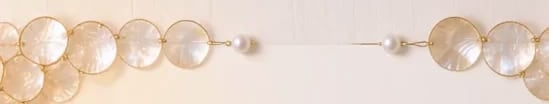
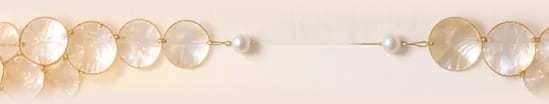
Set Capiz as a stack of pages, each with the frame as its own background
The fixed frame did not move with the words, and the page read as one run
of content over a backdrop. Now the format is a stack of pages, each with
the couple's frame as its own background — the top of the frame at the top
of the page, the bottom at the bottom, solid ground between, the inner
edges of the halves faded into the ground — so the shell and the drapes
scroll with the block they belong to and one page ends where the next
begins. Pages fill the screen; connectors are the short panels between
them, strung between the two strands.

The page map follows the reference: cover; the verse (connector); our story;
the invitation with its interlude; entourage; prenup photos (connector);
the venue — the ceremony's and the reception's when they differ, with the
way to each — and its interlude; dress code; gift; program with snap and
share; guestbook; post-event photos; RSVP; the countdown (connector);
assistance with the closing. A block that would render nothing — a Moment
with no photograph, a gallery with no photos, a guestbook switched off —
claims no page. On a wide screen the invitation is a phone-width column on
the ground colour.

Claude-Session: https://claude.ai/code/session_016Hrn6zEBySWuzzmQYy4Bah

diff --git a/invites/src/components/invite/renderer.tsx b/invites/src/components/invite/renderer.tsx
@@ -285,8 +285,10 @@ function Parents({ occasion, data, lang }: { occasion: Occasion; data: SectionDa
 }
 
 type EventFormat = {
-  /** "ceremony": the invitation block with its rows; "reception": the venue and the way there. */
+  /** "ceremony": the invitation block with its rows; "reception": the venue page — both venues and the way to each. */
   role: 'ceremony' | 'reception';
+  /** The ceremony's own data, for the venue page. */
+  ceremony?: SectionData;
   /** The sentence that does the inviting, and the full names over it. */
   intro?: string;
   sub?: string;
@@ -322,10 +324,10 @@ function EventBlock({ id, title, tagline, data, lang, fallbackDate, calendarHref
         </ul>
         {str(data, 'seatedBy') && <p className="inv-muted mt-4 text-center text-sm">{t(lang, 'ceremony.seatedBy')} {str(data, 'seatedBy')}</p>}
         {str(data, 'note') && <p className="mt-2 whitespace-pre-line text-center text-sm">{str(data, 'note')}</p>}
-        {(format.mapHere || !format.sameVenue || calendarHref) && (
+        {(format.mapHere || calendarHref) && (
           <div className="no-print mt-5 flex flex-wrap justify-center gap-2">
-            {(format.mapHere || !format.sameVenue) && maps && <a href={maps} target="_blank" rel="noopener" className="inv-btn inv-btn-outline">{t(lang, 'map.google')}</a>}
-            {(format.mapHere || !format.sameVenue) && waze && <a href={waze} target="_blank" rel="noopener" className="inv-btn inv-btn-outline">{t(lang, 'map.waze')}</a>}
+            {format.mapHere && maps && <a href={maps} target="_blank" rel="noopener" className="inv-btn inv-btn-outline">{t(lang, 'map.google')}</a>}
+            {format.mapHere && waze && <a href={waze} target="_blank" rel="noopener" className="inv-btn inv-btn-outline">{t(lang, 'map.waze')}</a>}
             {calendarHref && <a href={calendarHref} className="inv-btn inv-btn-outline">{t(lang, 'calendar.add')}</a>}
           </div>
         )}
@@ -333,30 +335,53 @@ function EventBlock({ id, title, tagline, data, lang, fallbackDate, calendarHref
     );
   }
   if (format?.role === 'reception') {
+    // One page for where it all happens: the ceremony's venue and the
+    // reception's when they differ, one heading when they are the same, and
+    // the way to each.
+    const cer = format.ceremony;
+    const cerVenue = cer ? str(cer, 'venue') : '';
+    const places = format.sameVenue || !cerVenue
+      ? [{ label: format.sameVenue ? t(lang, 'venue.both') : t(lang, 'venue.reception'), data, time: format.sameVenue ? '' : time }]
+      : [
+          { label: t(lang, 'invitation.ceremony'), data: cer as SectionData, time: str(cer, 'time') },
+          { label: t(lang, 'venue.reception'), data, time },
+        ];
+    const photoUrl = photo || (cer ? str(cer, 'photo') : '');
     return (
       <Section id={id} title={title} tagline={tagline}>
-        {photo && <img src={imageUrl(photo, IMAGE.feature)} alt="" className="inv-photo inv-venue-photo aspect-[4/3]" loading="lazy" />}
-        <p className="inv-eyebrow">{format.sameVenue ? t(lang, 'venue.both') : t(lang, 'venue.reception')}</p>
-        <p className="inv-venue-name">{venue}</p>
-        {address && <p className="inv-venue-addr">{address}</p>}
-        {time && !format.sameVenue && <p className="mt-2 text-center">{formatTime(time)}</p>}
+        {photoUrl && <img src={imageUrl(photoUrl, IMAGE.feature)} alt="" className="inv-photo inv-venue-photo aspect-[4/3]" loading="lazy" />}
+        <div className="inv-venues">
+          {places.map((p, i) => (
+            <div key={i}>
+              <p className="inv-eyebrow">{p.label}</p>
+              <p className="inv-venue-name">{str(p.data, 'venue')}</p>
+              {str(p.data, 'address') && <p className="inv-venue-addr">{str(p.data, 'address')}</p>}
+              {p.time && <p className="mt-1 text-center">{formatTime(p.time)}</p>}
+            </div>
+          ))}
+        </div>
         {str(data, 'parkingNote') && <p className="mt-3 text-center text-sm">{str(data, 'parkingNote')}</p>}
         {str(data, 'note') && <p className="mt-2 whitespace-pre-line text-center text-sm">{str(data, 'note')}</p>}
-        <div className="inv-getting-block">
-          <span className="inv-bracket" data-side="r" aria-hidden />
-          <h3 className="inv-title inv-title-sub">{format.gettingTitle}</h3>
-          <div className="inv-card inv-getting">
-            <Ico name="pin" />
-            <div>
-              <b>{venue}</b>
-              {address && <span>{address}</span>}
+        <h3 className="inv-title inv-title-sub">{format.gettingTitle}</h3>
+        {places.map((p, i) => {
+          const m = mapsHref(p.data);
+          const w = wazeHref(p.data);
+          return (
+            <div key={i} className="inv-getting-block">
+              <div className="inv-card inv-getting">
+                <Ico name="pin" />
+                <div>
+                  <b>{str(p.data, 'venue')}</b>
+                  {str(p.data, 'address') && <span>{str(p.data, 'address')}</span>}
+                </div>
+              </div>
+              <div className="no-print">
+                {m && <a href={m} target="_blank" rel="noopener" className="inv-btn inv-btn-outline inv-btn-wide"><Ico name="pin" className="inv-ico-sm" />{t(lang, 'map.openGoogle')}</a>}
+                {w && <a href={w} target="_blank" rel="noopener" className="inv-btn inv-btn-outline inv-btn-wide"><Ico name="pin" className="inv-ico-sm" />{t(lang, 'map.openWaze')}</a>}
+              </div>
             </div>
-          </div>
-          <div className="no-print">
-            {maps && <a href={maps} target="_blank" rel="noopener" className="inv-btn inv-btn-outline inv-btn-wide"><Ico name="pin" className="inv-ico-sm" />{t(lang, 'map.openGoogle')}</a>}
-            {waze && <a href={waze} target="_blank" rel="noopener" className="inv-btn inv-btn-outline inv-btn-wide"><Ico name="pin" className="inv-ico-sm" />{t(lang, 'map.openWaze')}</a>}
-          </div>
-        </div>
+          );
+        })}
       </Section>
     );
   }
@@ -736,7 +761,6 @@ function Story({ data, lang, title, tagline, layout, signoff }: { data: SectionD
       )}
       {signoff && (
         <div className="inv-story-sign">
-          <span className="inv-bracket" data-side="r" aria-hidden />
           <span className="inv-rule" aria-hidden />
           <p className="inv-eyebrow">{signoff.names}</p>
           {signoff.date && <p className="inv-eyebrow inv-eyebrow-date">{signoff.date}</p>}
@@ -1101,22 +1125,32 @@ function Contact({ data, lang, tagline, title, format, note }: { data: SectionDa
 // ---------------------------------------------------------------------------
 
 /**
- * The couple's frame, fixed behind the page: every screen carries its drapes
- * and corner clusters while the content scrolls over it. The plate behind the
- * names and the garlands between chapters are CSS on the hero and on the
- * dividers below, so a print carries none of it.
+ * The Capiz format is a stack of pages. Each carries the couple's frame as
+ * its own background — the top of it at the top of the page, the bottom at
+ * the bottom, solid ground between — so the shell and the drapes scroll with
+ * the words they belong to, and one page ends where the next begins the way
+ * the reference does. A "page" fills the screen; a "connector" is the short
+ * panel between two pages, strung between the two strands.
  */
-function CapizDecor() {
-  return <div className="inv-frame" aria-hidden />;
-}
-
-/**
- * Where a garland is strung across the page: before the chapter it opens.
- * The deep rows from the band image open the big chapters; the thin strands
- * from the two-strand image, a cluster at one end then the other, connect
- * the rest.
- */
-const GARLANDS: Partial<Record<SectionKey, 'a' | 'b' | 's1' | 's2'>> = { story: 'a', ceremony: 'b', entourage: 's1', gift: 's2', rsvp: 'a', contact: 's1' };
+type PageDef = { key: string; kind: 'page' | 'connector'; sections: (SectionKey | 'verse')[] };
+const CAPIZ_PAGES: PageDef[] = [
+  { key: 'cover', kind: 'page', sections: ['cover'] },
+  { key: 'verse', kind: 'connector', sections: ['verse'] },
+  { key: 'moment', kind: 'page', sections: ['moment'] },
+  { key: 'story', kind: 'page', sections: ['story'] },
+  { key: 'invitation', kind: 'page', sections: ['ceremony'] },
+  { key: 'entourage', kind: 'page', sections: ['entourage'] },
+  { key: 'prenup', kind: 'connector', sections: ['gallery'] },
+  { key: 'venue', kind: 'page', sections: ['reception'] },
+  { key: 'dress-code', kind: 'page', sections: ['dressCode'] },
+  { key: 'gift', kind: 'page', sections: ['gift'] },
+  { key: 'program', kind: 'page', sections: ['program', 'social'] },
+  { key: 'guestbook', kind: 'page', sections: ['guestbook'] },
+  { key: 'photos', kind: 'page', sections: ['photos'] },
+  { key: 'rsvp', kind: 'page', sections: ['rsvp'] },
+  { key: 'countdown', kind: 'connector', sections: ['countdown'] },
+  { key: 'closing', kind: 'page', sections: ['contact', 'closing'] },
+];
 
 /** Which line icon a program entry gets, from the words in its title. */
 function programIcon(title: string): string {
@@ -1311,27 +1345,35 @@ export function Invitation({ invitation: inv, guest, preview = false, print = fa
   const sameVenue = Boolean(str(content.ceremony, 'venue')) && str(content.ceremony, 'venue').trim().toLowerCase() === str(content.reception, 'venue').trim().toLowerCase();
   const hasReception = visible('reception') && Boolean(str(content.reception, 'venue'));
   const names = displayTitle(occasion, content);
-  const body = order.map((key) => {
-    const block = section(key);
-    const garland = layout === 'capiz' && block ? GARLANDS[key] : undefined;
-    return garland ? (
-      <Fragment key={key}>
-        <div className="inv-garland" data-g={garland} aria-hidden />
-        {block}
-      </Fragment>
-    ) : block;
-  });
+  const verse = format && str(content.cover, 'verse') ? <Verse key="verse" text={str(content.cover, 'verse')} source={str(content.cover, 'verseRef')} /> : null;
+  const body = format ? pages() : order.map((key) => section(key));
+  function pages() {
+    const drawn = new Map<string, ReactNode>();
+    for (const key of order) {
+      const el = section(key);
+      if (el) drawn.set(key, el);
+    }
+    if (verse) drawn.set('verse', verse);
+    const placed = new Set<string>();
+    const out: ReactNode[] = [];
+    const page = (key: string, kind: PageDef['kind'], parts: ReactNode[]) => (
+      <div key={key} className="inv-page" data-page={key} data-kind={kind}>{parts}</div>
+    );
+    for (const def of CAPIZ_PAGES) {
+      const parts = def.sections.map((k) => drawn.get(k)).filter(Boolean) as ReactNode[];
+      def.sections.forEach((k) => placed.add(k));
+      if (parts.length) out.push(page(def.key, def.kind, parts));
+    }
+    // a section the map does not name gets a page of its own, in its place
+    for (const key of order) if (!placed.has(key) && drawn.has(key)) out.push(page(key, 'page', [drawn.get(key)]));
+    return out;
+  }
   function section(key: SectionKey) {
     if (!visible(key)) return null;
     const data = content[key] ?? {};
     switch (key) {
       case 'cover':
-        return (
-          <Fragment key={key}>
-            <Hero occasion={occasion} content={content} lang={lang} layout={layout} format={format} look={look} eyebrow={look ? line('cover') : undefined} />
-            {format && str(data, 'verse') && <Verse text={str(data, 'verse')} source={str(data, 'verseRef')} />}
-          </Fragment>
-        );
+        return <Hero key={key} occasion={occasion} content={content} lang={lang} layout={layout} format={format} look={look} eyebrow={look ? line('cover') : undefined} />;
       case 'countdown':
         return bool(data, 'enabled') && eventAt ? (
           <Section key={key} id="countdown" eyebrow={look ? undefined : str(data, 'label') || t(lang, 'countdown.title')} tagline={look ? str(data, 'label') || line('countdown') : undefined}>
@@ -1373,7 +1415,7 @@ export function Invitation({ invitation: inv, guest, preview = false, print = fa
             lang={lang}
             fallbackDate={str(content.ceremony, 'venue') ? '' : coverDate}
             calendarHref={str(content.ceremony, 'venue') ? undefined : calendarHref}
-            format={format ? { role: 'reception', sameVenue, mapHere: true, gettingTitle: named('getting', t(lang, 'venue.getting')) } : undefined}
+            format={format ? { role: 'reception', ceremony: content.ceremony, sameVenue, mapHere: true, gettingTitle: named('getting', t(lang, 'venue.getting')) } : undefined}
           />
         );
         const after = format && str(data, 'venue') ? str(content.cover, 'interlude2') || line('interlude2') : '';
@@ -1401,13 +1443,14 @@ export function Invitation({ invitation: inv, guest, preview = false, print = fa
       case 'story':
         return <Story key={key} data={data} lang={lang} title={named('story', t(lang, 'story.title'))} tagline={line('story')} layout={layout} signoff={format ? { names, date: dottedDate(coverDate) } : undefined} />;
       case 'gallery':
-        return <Gallery key={key} data={data} lang={lang} tier={inv.tier} tagline={line('gallery')} title={lookTitle(look, lang, 'gallery')} />;
+        return rows<{ url: string }>(data, 'photos').some((r) => r.url) || str(data, 'videoUrl') ? <Gallery key={key} data={data} lang={lang} tier={inv.tier} tagline={line('gallery')} title={lookTitle(look, lang, 'gallery')} /> : null;
       case 'program':
         return <Program key={key} data={data} title={occasion === 'CORPORATE' ? t(lang, 'program.agenda') : named('program', t(lang, 'program.title'))} tagline={line('program')} />;
       case 'faq':
         return <Faq key={key} data={data} lang={lang} />;
       case 'moment':
-        return <Moment key={key} data={data} format={format} />;
+        // on the format the three lines are on the cover, so without a photograph there is no page
+        return format && !str(data, 'backdrop') ? null : <Moment key={key} data={data} format={format} />;
       case 'travel':
         return <Travel key={key} data={data} lang={lang} />;
       case 'social':
@@ -1415,7 +1458,7 @@ export function Invitation({ invitation: inv, guest, preview = false, print = fa
       case 'music':
         return null;
       case 'guestbook':
-        return <Guestbook key={key} inv={inv} data={data} lang={lang} hostsNoun={hostsNoun} slug={inv.slug} tagline={line('guestbook')} title={lookTitle(look, lang, 'guestbook')} />;
+        return !bool(data, 'enabled') ? null : <Guestbook key={key} inv={inv} data={data} lang={lang} hostsNoun={hostsNoun} slug={inv.slug} tagline={line('guestbook')} title={lookTitle(look, lang, 'guestbook')} />;
       case 'photos':
         return hasFeature(inv.tier, 'photoSharing') ? (
           <GuestPhotos key={key} inv={inv} data={data} lang={lang} slug={inv.slug} token={guest?.token} print={print} tagline={line('photos')} title={lookTitle(look, lang, 'photos')} format={format} intro={line('photosIntro')} />
@@ -1440,7 +1483,6 @@ export function Invitation({ invitation: inv, guest, preview = false, print = fa
         </div>
       )}
       <Shell opening={opening} music={print || bare ? '' : musicUrl} autoplay={bool(content.music, 'autoplay')} playLabel={t(lang, 'music.play')} pauseLabel={t(lang, 'music.pause')}>
-        {layout === 'capiz' && <CapizDecor />}
         {body}
         <footer className="inv-section text-center text-xs" style={{ color: 'var(--inv-muted)' }}>
           {!print && (

diff --git a/invites/src/app/globals.css b/invites/src/app/globals.css
@@ -530,52 +530,33 @@ table.data tr:hover td {
 .inv[data-layout='capiz']::before,
 .inv[data-layout='capiz']::after { display: none; }
 
-/* --- capiz, photographed: the couple's own portrait frame fixed behind the
-   page, their name plate behind the hero, and a strung garland across the
-   page where one chapter ends and the next begins. All of it their pixels,
-   none of it drawn. --- */
-.inv[data-layout='capiz'] { position: relative; overflow: hidden; }
-/* The frame: fixed behind the page, so every screen carries the drapes and
-   the corner clusters while the content scrolls over it. A fixed element
-   rather than background-attachment, which iOS Safari does not honour. The
-   portrait image on a phone; the landscape original when the screen is wider
-   than it is tall, so the clusters stay in the corners either way. */
-.inv-frame { position: fixed; inset: 0; z-index: 0; pointer-events: none; background: #f1e5dc url(/capiz/portrait-frame.jpg) center / cover no-repeat; }
-@media (orientation: landscape) { .inv-frame { background-image: url(/capiz/frame.webp); } }
-.inv[data-layout='capiz'] > .inv-hero,
-.inv[data-layout='capiz'] > .inv-section,
-.inv[data-layout='capiz'] > .inv-garland { position: relative; z-index: 1; }
-.inv[data-layout='capiz'] .inv-hero > * { position: relative; z-index: 1; }
-
-/* a garland: one strung row cut from the couple's images, across the page
-   between chapters, feathered top and bottom into the ground — the deep rows
-   from the band image, the thin strands with a cluster at one end from the
-   two-strand image */
-.inv-garland {
-  display: block; width: 100%; max-width: 44rem; margin: -0.5rem auto -1.25rem; pointer-events: none;
-  background-size: 100% auto; background-position: center; background-repeat: no-repeat;
-  -webkit-mask-image: linear-gradient(to bottom, transparent, #000 24%, #000 76%, transparent);
-          mask-image: linear-gradient(to bottom, transparent, #000 24%, #000 76%, transparent);
+/* --- capiz, photographed: a stack of pages, each carrying the couple's own
+   frame as its background — the top of the frame at the top of the page, the
+   bottom at the bottom, solid ground between — so the shell and the drapes
+   scroll with the words they belong to, and one page ends where the next
+   begins. A connector is the short panel between two pages, strung between
+   the two strands cut from the two-strand image. --- */
+.inv[data-layout='capiz'] { position: relative; overflow: hidden; max-width: 32rem; margin: 0 auto; }
+body:has(.inv[data-layout='capiz']) { background: #e9dfd2; }
+.inv-page {
+  position: relative;
+  min-height: 100svh;
+  display: flex; flex-direction: column; justify-content: center;
+  padding: 5rem 0;
+  background-color: #f1e5dc;
+  background-image: url(/capiz/frame-top.jpg), url(/capiz/frame-bottom.jpg);
+  background-position: center top, center bottom;
+  background-size: 100% auto, 100% auto;
+  background-repeat: no-repeat;
 }
-.inv-garland[data-g='a'] { aspect-ratio: 720 / 269; background-image: url(/capiz/garland-a.jpg); }
-.inv-garland[data-g='b'] { aspect-ratio: 720 / 282; background-image: url(/capiz/garland-b.jpg); }
-.inv-garland[data-g='s1'] { aspect-ratio: 549 / 104; background-image: url(/capiz/strand-a.jpg); margin: 0.5rem auto -0.5rem; }
-.inv-garland[data-g='s2'] { aspect-ratio: 549 / 96; background-image: url(/capiz/strand-b.jpg); margin: 0.5rem auto -0.5rem; }
-.inv-garland[data-g='s1'], .inv-garland[data-g='s2'] {
-  -webkit-mask-image: linear-gradient(to bottom, transparent, #000 30%, #000 70%, transparent);
-          mask-image: linear-gradient(to bottom, transparent, #000 30%, #000 70%, transparent);
+.inv-page[data-kind='connector'] {
+  min-height: 0;
+  padding: 5.5rem 0;
+  background-image: url(/capiz/strand-a.jpg), url(/capiz/strand-b.jpg);
 }
-/* the cluster at the page's edge beside a block, from the same image */
-.inv-bracket {
-  position: absolute; z-index: 0; pointer-events: none; top: 50%; translate: 0 -50%;
-  width: 7.2rem; aspect-ratio: 200 / 468; background: url(/capiz/bracket-r.jpg) center / cover no-repeat;
-}
-.inv-bracket[data-side='r'] { right: -1.6rem;
-  -webkit-mask-image: radial-gradient(ellipse 100% 60% at 100% 50%, #000 40%, rgba(0,0,0,.6) 66%, transparent 92%);
-          mask-image: radial-gradient(ellipse 100% 60% at 100% 50%, #000 40%, rgba(0,0,0,.6) 66%, transparent 92%); }
-.inv-bracket[data-side='l'] { left: -1.6rem; transform: scaleX(-1);
-  -webkit-mask-image: radial-gradient(ellipse 100% 60% at 100% 50%, #000 40%, rgba(0,0,0,.6) 66%, transparent 92%);
-          mask-image: radial-gradient(ellipse 100% 60% at 100% 50%, #000 40%, rgba(0,0,0,.6) 66%, transparent 92%); }
+.inv-page > .inv-section { padding-top: 1.5rem; padding-bottom: 1.5rem; }
+.inv-page > .inv-section + .inv-section { padding-top: 2.5rem; }
+.inv-page[data-page='cover'] { padding: 3rem 0; }
 
 /* --- sections --- */
 .inv[data-layout='capiz'] .inv-section {
@@ -678,8 +659,8 @@ table.data tr:hover td {
 /* --- hero: the names centred in the frame, measured by its own width (a
    container) so a phone and a showcase column the width of a phone agree --- */
 .inv[data-layout='capiz'] .inv-hero {
-  min-height: 100svh;
-  padding: 4rem 0 3rem;
+  min-height: 0;
+  padding: 0;
   display: flex;
   align-items: center;
   justify-content: center;
@@ -864,10 +845,9 @@ table.data tr:hover td {
 .inv-verse-text { text-transform: uppercase; letter-spacing: 0.2em; font-size: 0.95rem; line-height: 2; color: var(--inv-ink); }
 .inv-verse-ref { margin-top: 1.4rem; }
 .inv-rule { display: block; width: 2.6rem; height: 1px; margin: 1.6rem auto 0; background: var(--inv-accent2); }
-.inv-story-sign { position: relative; text-align: center; margin-top: 2.4rem; }
-.inv-getting-block { position: relative; }
-/* the text above the cluster, the cluster behind it */
-.inv-getting-block > :not(.inv-bracket), .inv-story-sign > :not(.inv-bracket) { position: relative; z-index: 1; }
+.inv-story-sign { text-align: center; margin-top: 2.4rem; }
+.inv-getting-block + .inv-getting-block { margin-top: 1.4rem; }
+.inv-venues { display: grid; gap: 1.4rem; margin-top: 0.4rem; }
 .inv-story-sign .inv-eyebrow { margin-bottom: 0.15rem; margin-top: 1.2rem; color: var(--inv-ink); opacity: 0.85; }
 .inv-story-sign .inv-eyebrow-date { margin-top: 0; letter-spacing: 0.42em; text-indent: 0.42em; }
 .inv-interlude { text-align: center; padding-top: 0.6rem; padding-bottom: 0.6rem; }
@@ -915,12 +895,13 @@ table.data tr:hover td {
 .looks-col { flex: none; width: 390px; scroll-snap-align: start; }
 .looks-phone { position: relative; height: 800px; overflow: auto; border-radius: 2.2rem; border: 8px solid #1f1d1a; background: #1f1d1a; transform: translateZ(0); }
 .looks-phone .inv { min-height: 100%; }
-.looks-phone .inv-hero { min-height: 784px; }
+.looks-phone .inv-page { min-height: 784px; }
+.looks-phone .inv-page[data-kind='connector'] { min-height: 0; }
 
 /* the strip is decoration: none of it prints */
 @media print {
-  .inv-frame, .inv-garland, .inv-bracket { display: none !important; }
-  .inv[data-layout='capiz'] .inv-hero { min-height: 0; }
+  .inv-page { background-image: none; min-height: 0; padding: 1rem 0; }
+  .inv[data-layout='capiz'] { max-width: none; }
 }
 
 /* ---------------------------------------------------------------------------
